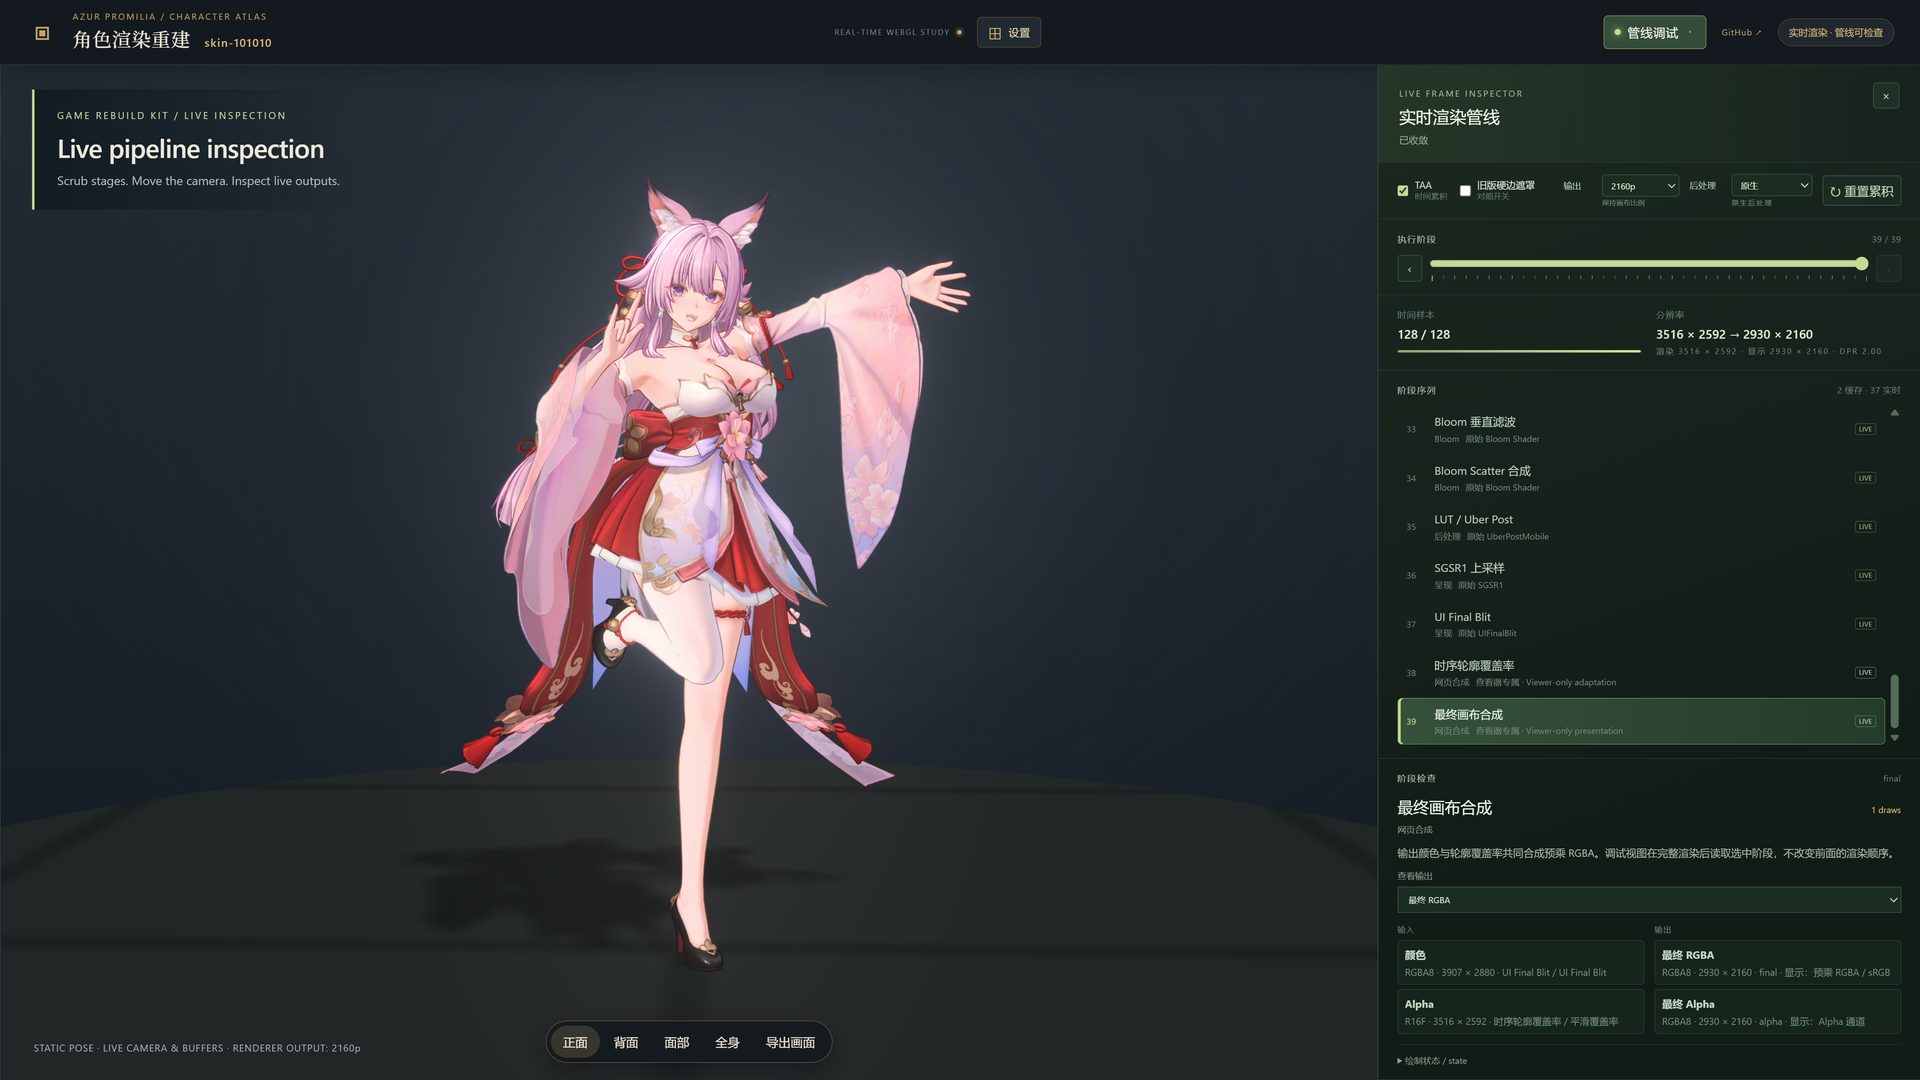
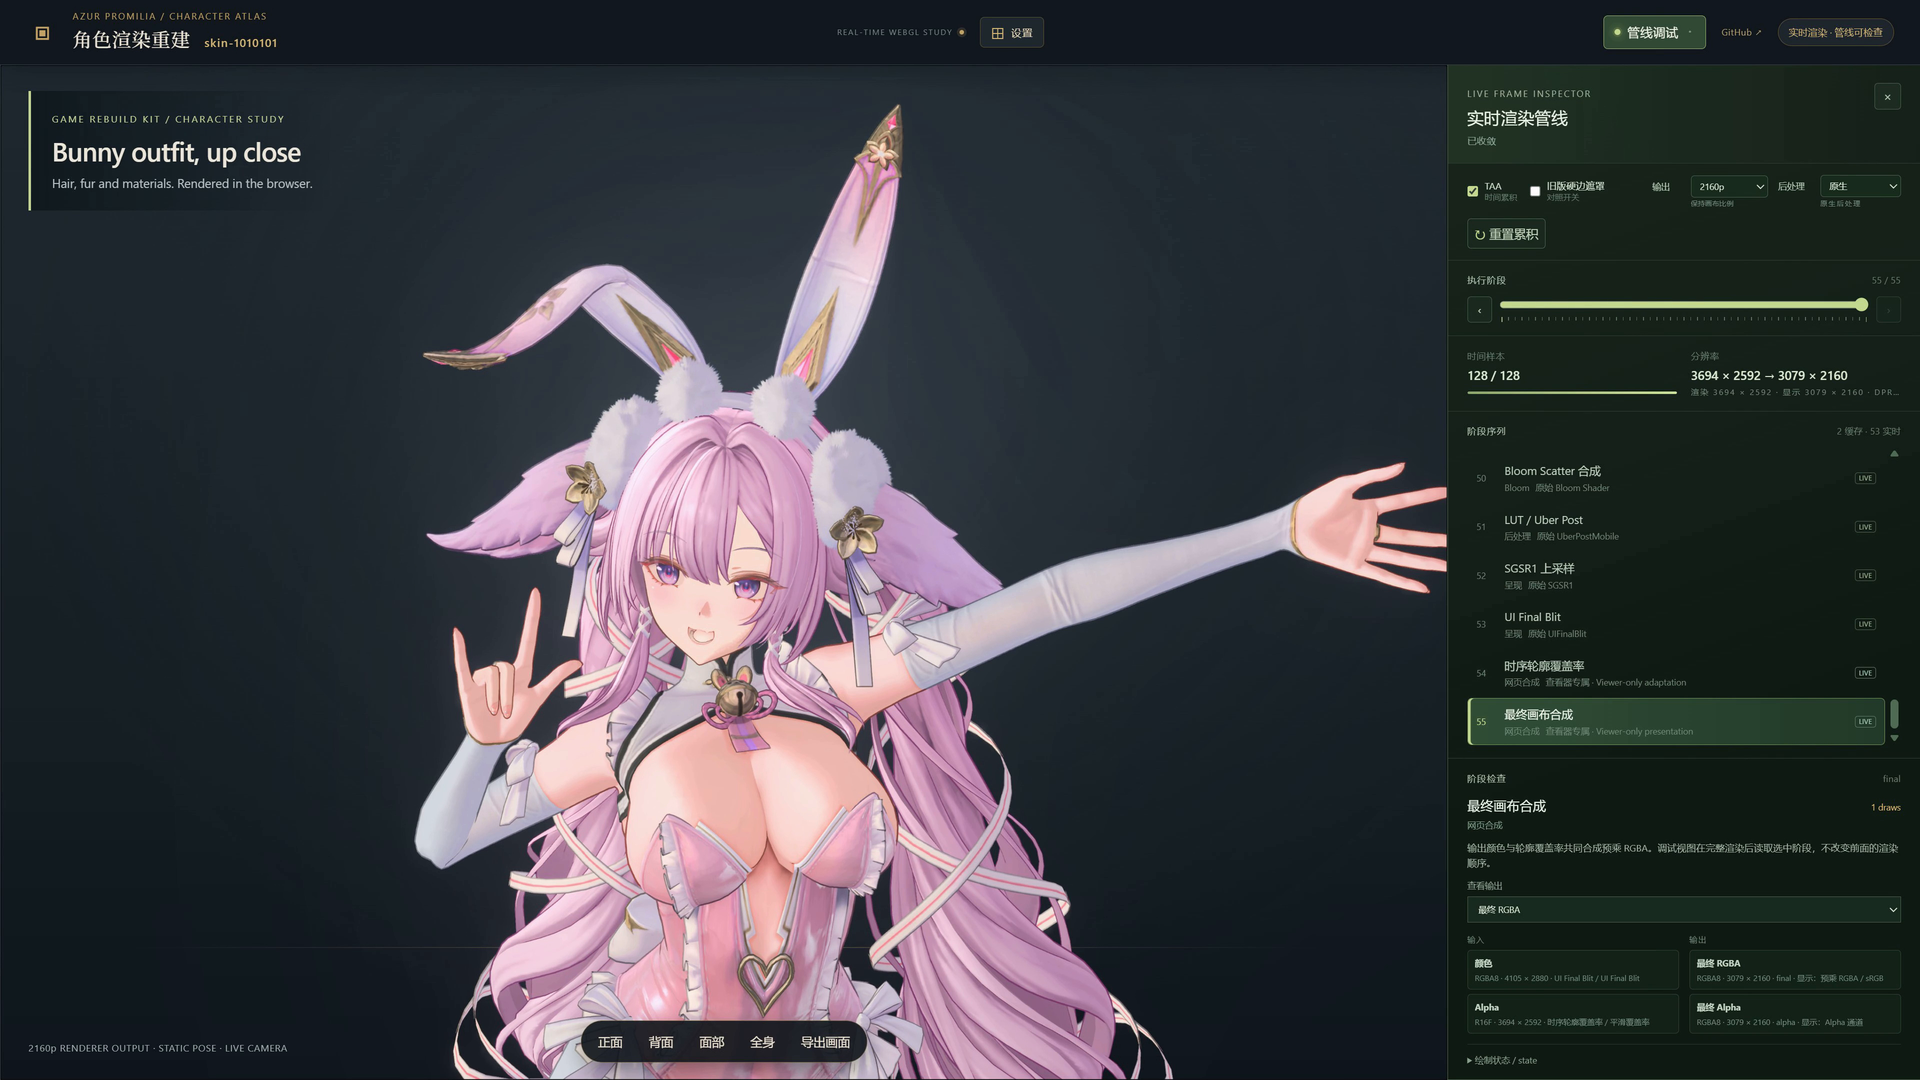
Replace Promilia showcase with bunny outfit close-up

diff --git a/README.ja.md b/README.ja.md
@@ -13,17 +13,17 @@
 
 | ケース | 焦点 | オンラインデモ |
 |---|---|---|
-| Azur Promilia | リアルタイムのレンダーパイプライン検査 | [HTMLを開く](https://promilia-character-study.pages.dev/) |
+| Azur Promilia | リアルタイムのレンダーパイプライン検査 | [HTMLを開く](https://promilia-character-study.pages.dev/?character=skin-1010101) |
 | Remielle / ZZZ | アニメーション、二次モーション、多段パスレンダリング | [HTMLを開く](https://remielle-motion-study.pages.dev/) |
 
 <details open>
 <summary><strong>Azur Promilia — リアルタイムのパイプライン検査</strong></summary>
 
-[![Azur Promiliaの再構築パイプライン検査画面の代表スクリーンショット。](media/promilia-pipeline.webp)](https://promilia-character-study.pages.dev/)
+[![ウサギ衣装のクローズアップとリアルタイムのパイプライン検査画面。](media/promilia-pipeline.webp)](https://promilia-character-study.pages.dev/?character=skin-1010101)
 
-https://github.com/user-attachments/assets/f0086d68-ed3c-4403-b0a0-27606510b114
+https://github.com/user-attachments/assets/f7a09f37-7677-445d-859e-5addb5d745da
 
-28秒 · 4K · 25 fps · 音声なし
+26.5秒 · 4K · 25 fps · 音声なし
 
 **焦点：** RenderDocのようにステージをたどり、カメラを動かしながらバッファを確認。ネイティブ／ZZZのポストプロセスを切り替えられます。
 

diff --git a/README.md b/README.md
@@ -13,17 +13,17 @@ This release provides an agent skill and worked examples. Universal one-click au
 
 | Case | Focus | Live demo |
 |---|---|---|
-| Azur Promilia | Live render-pipeline inspection | [Open HTML](https://promilia-character-study.pages.dev/) |
+| Azur Promilia | Live render-pipeline inspection | [Open HTML](https://promilia-character-study.pages.dev/?character=skin-1010101) |
 | Remielle / ZZZ | Animation, secondary motion, multi-pass rendering | [Open HTML](https://remielle-motion-study.pages.dev/) |
 
 <details open>
 <summary><strong>Azur Promilia — live pipeline inspection</strong></summary>
 
-[![Representative screenshot of the reconstructed pipeline inspector for Azur Promilia.](media/promilia-pipeline.webp)](https://promilia-character-study.pages.dev/)
+[![Close-up of the bunny outfit with the live render-pipeline inspector.](media/promilia-pipeline.webp)](https://promilia-character-study.pages.dev/?character=skin-1010101)
 
-https://github.com/user-attachments/assets/f0086d68-ed3c-4403-b0a0-27606510b114
+https://github.com/user-attachments/assets/f7a09f37-7677-445d-859e-5addb5d745da
 
-28 s · 4K · 25 fps · silent
+26.5 s · 4K · 25 fps · silent
 
 **Focus:** RenderDoc-style inspection: scrub stages, inspect buffers while moving the camera, and switch native/ZZZ post-processing.
 

diff --git a/README.zh-CN.md b/README.zh-CN.md
@@ -13,17 +13,17 @@
 
 | 案例 | 重点 | 在线演示 |
 |---|---|---|
-| Azur Promilia | 实时渲染管线检查 | [打开 HTML](https://promilia-character-study.pages.dev/) |
+| Azur Promilia | 实时渲染管线检查 | [打开 HTML](https://promilia-character-study.pages.dev/?character=skin-1010101) |
 | Remielle / ZZZ | 动画、次级运动、多 pass 渲染 | [打开 HTML](https://remielle-motion-study.pages.dev/) |
 
 <details open>
 <summary><strong>Azur Promilia — 实时管线检查</strong></summary>
 
-[![Azur Promilia 重建管线检查器的代表性截图。](media/promilia-pipeline.webp)](https://promilia-character-study.pages.dev/)
+[![兔装近景渲染与实时管线检查界面。](media/promilia-pipeline.webp)](https://promilia-character-study.pages.dev/?character=skin-1010101)
 
-https://github.com/user-attachments/assets/f0086d68-ed3c-4403-b0a0-27606510b114
+https://github.com/user-attachments/assets/f7a09f37-7677-445d-859e-5addb5d745da
 
-28 秒 · 4K · 25 fps · 无声
+26.5 秒 · 4K · 25 fps · 无声
 
 **重点：** 类似 RenderDoc 的检查方式：拖动阶段滑条，移动相机查看实时缓冲，切换原生／ZZZ 后处理。
 
